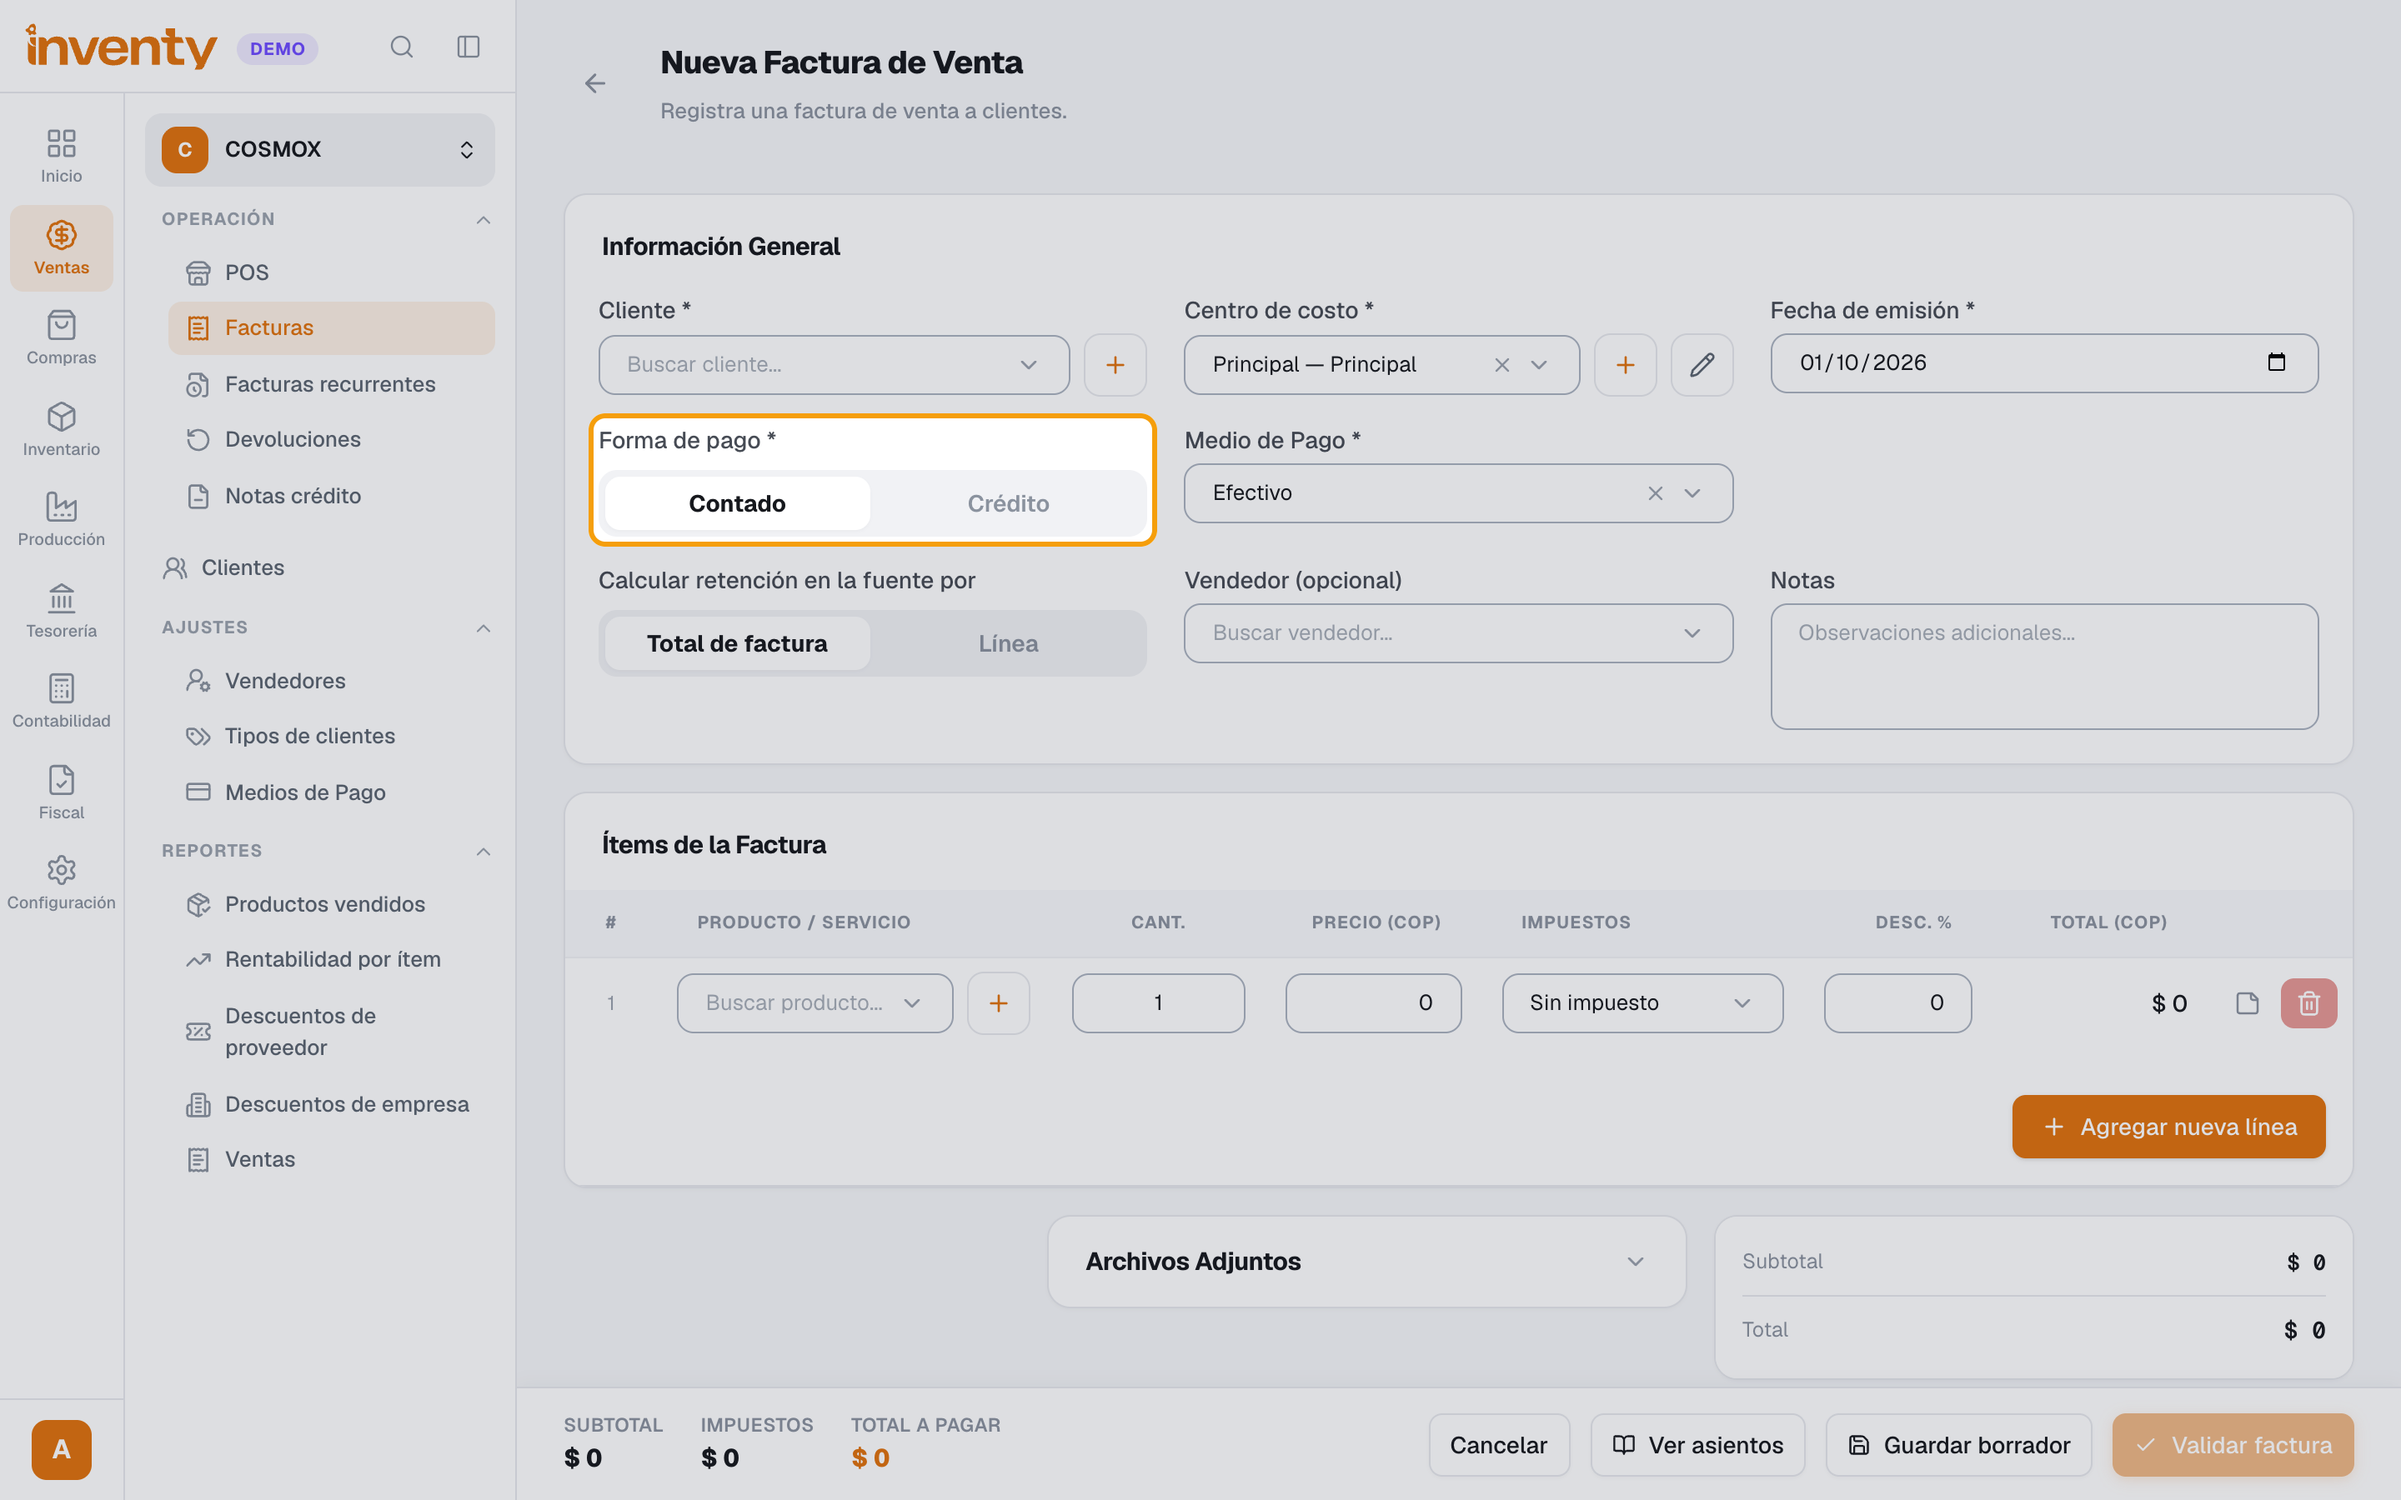
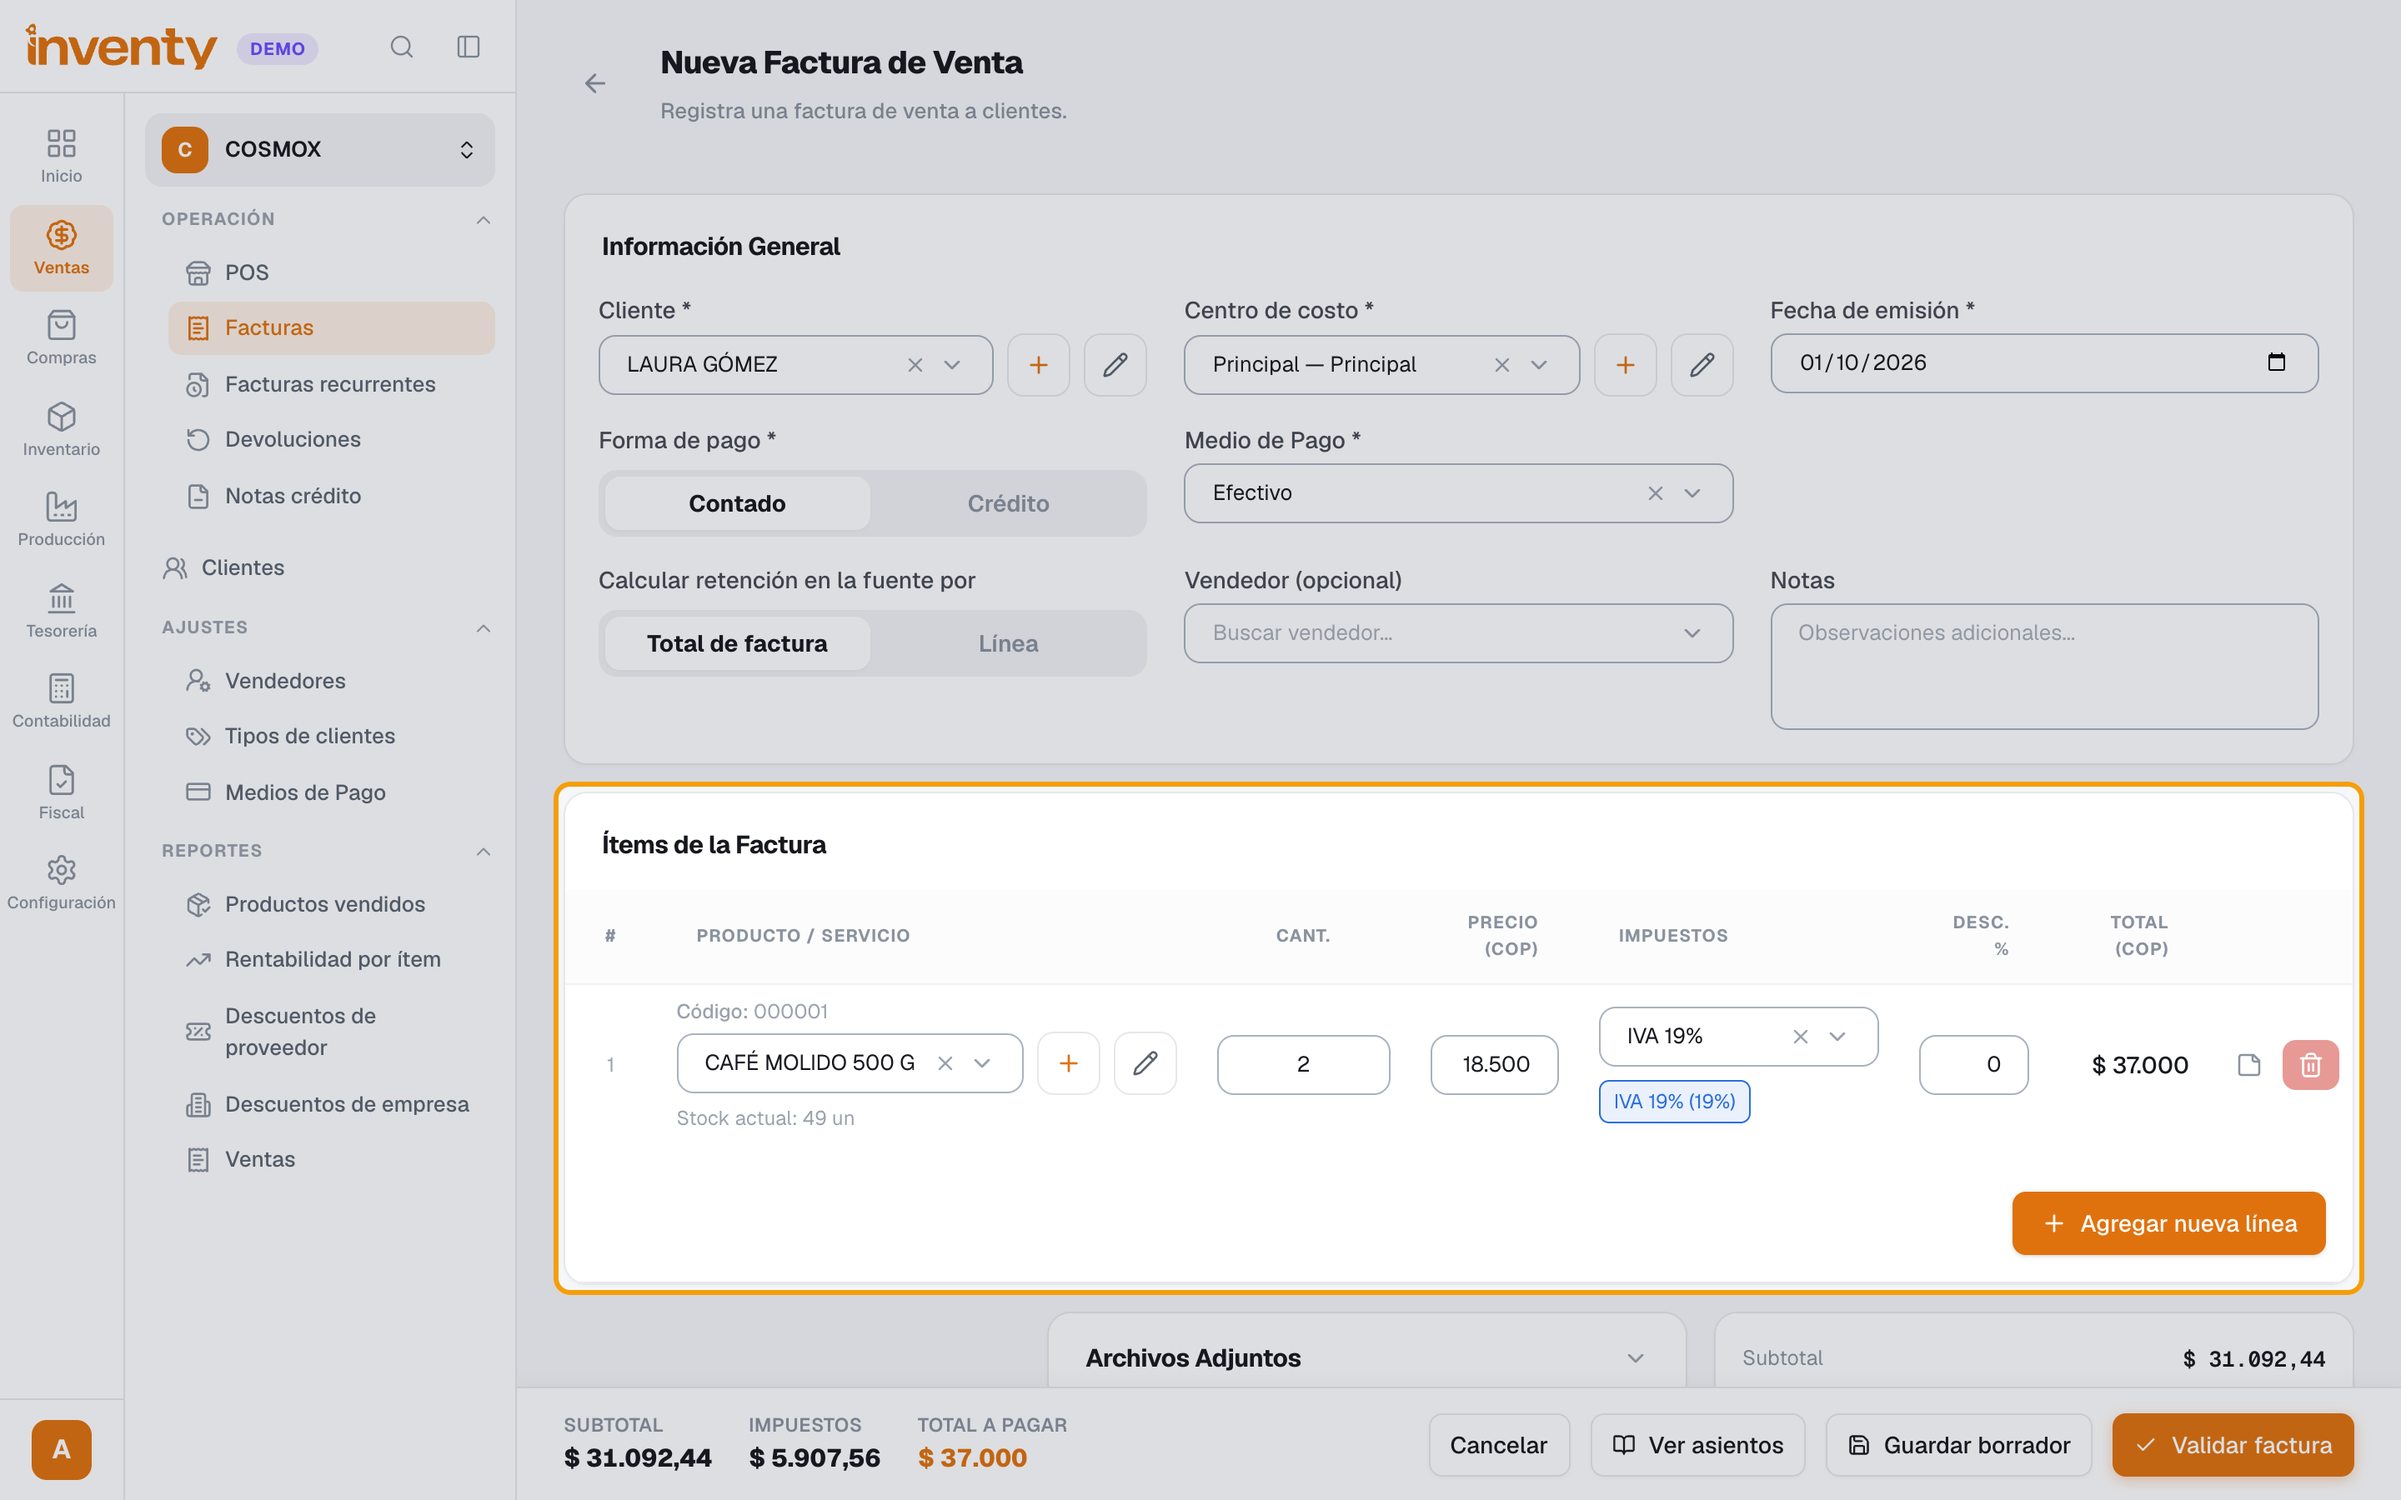
feat: factura de venta a crédito validada en la demo; guía de tipos de cliente
- Hallazgos documentados: cuenta por cobrar en el tipo de cliente, error de monto
  a crédito, menú Más acciones; pasos de facturación electrónica como captura manual
  (la demo no está habilitada ante la DIAN).

diff --git a/docs/ventas/crear-factura-venta.md b/docs/ventas/crear-factura-venta.md
@@ -32,21 +32,21 @@ tags:
 
 ![Paso 2: cliente, centro de costo y fecha](../assets/capturas/ventas/crear-factura-venta/paso-2.png)
 
-**Paso 3.** Elige **Forma de pago** (**Contado** o **Crédito**) y el **Medio de Pago**. En crédito, revisa la **Fecha de vencimiento**.
+**Paso 3.** En **Ítems de la Factura**, elige el producto en **Buscar producto...** y escribe la cantidad. El precio, el impuesto y el descuento se llenan solos. Usa **Agregar nueva línea** para más productos.
 
-![Paso 3: forma y medio de pago](../assets/capturas/ventas/crear-factura-venta/paso-3.png)
+![Paso 3: ítems de la factura](../assets/capturas/ventas/crear-factura-venta/paso-3.png)
 
-**Paso 4.** En **Ítems de la Factura**, haz clic en **Agregar ítem** y registra cada producto con cantidad y precio.
+**Paso 4.** Elige **Forma de pago**: **Contado** (con su **Medio de Pago**) o **Crédito** (verás el **Cupo disponible** y la **Fecha de vencimiento**). Hazlo **después** de agregar los productos.
 
-![Paso 4: ítems de la factura](../assets/capturas/ventas/crear-factura-venta/paso-4.png)
+![Paso 4: forma y medio de pago](../assets/capturas/ventas/crear-factura-venta/paso-4.png)
 
 **Paso 5.** Revisa el **Total a pagar** y haz clic en **Validar factura**. Confirma en **¿Validar factura?**
 
 ![Paso 5: botón Validar factura](../assets/capturas/ventas/crear-factura-venta/paso-5.png)
 
-**Paso 6.** Si no se envió sola a la DIAN, en el detalle haz clic en **Emitir electrónica**.
+**Paso 6.** En el detalle, **Más acciones** tiene **PDF**, **Ver asientos**, **Imprimir tirilla**, **Clonar** y **Convertir en recurrente**. Si tu empresa factura electrónicamente y no se envió sola, ahí también verás **Emitir electrónica** ([guía](../facturacion-electronica/emitir-factura-electronica.md)).
 
-![Paso 6: botón Emitir electrónica](../assets/capturas/ventas/crear-factura-venta/paso-6.png)
+![Paso 6: menú Más acciones de la factura](../assets/capturas/ventas/crear-factura-venta/paso-6.png)
 
 ✅ **Listo:** la factura queda **Validada** (o **Pagada**) y afecta inventario, cartera y contabilidad. Ya no se puede editar.
 
@@ -58,8 +58,9 @@ tags:
 | Problema | Solución |
 |---|---|
 | *La fecha de emisión no puede ser una fecha futura.* | Usa hoy o una fecha anterior. |
+| *El monto a crédito debe ser igual al total de la factura.* | Elegiste **Crédito** antes de agregar o cambiar productos. Haz clic en **Contado** y otra vez en **Crédito** para recalcular. |
 | *Este cliente no tiene cupo de crédito disponible.* | Sube su cupo o factura de contado. |
-| *El asiento contable no está balanceado* | Falta una cuenta contable: revisa con tu contador. |
+| *El asiento contable no está balanceado* | Usa **Ver asientos**: la línea sin cuenta dice qué falta. Si dice *Configura la cuenta por cobrar en el tipo de cliente*, asígnale al cliente un [tipo de cliente](tipos-de-cliente.md) con cuenta por cobrar. |
 | *El centro de costo es obligatorio.* | Crea uno en <span class="ruta">Configuración › Centros de Costo</span>. |
 | Me equivoqué en una factura validada | Haz una [devolución](devolucion-venta.md). Anular solo es posible si no movió inventario. |
 

diff --git a/gestion/estado-articulos.md b/gestion/estado-articulos.md
@@ -2,7 +2,7 @@
 
 > Generado con `python scripts/check_docs.py --estado > gestion/estado-articulos.md`. No editar a mano.
 
-**Pendiente de validación:** 61
+**Pendiente de validación:** 62
 
 | Módulo | Artículo | Tipo | Estado | Capturas pendientes | Validaciones pendientes | Revisado |
 |---|---|---|---|---|---|---|
@@ -17,7 +17,7 @@
 | facturacion-electronica | [Facturación electrónica](../docs/facturacion-electronica/index.md) | indice | Pendiente de validación | 0 | 2 | 2026-09-29 |
 | facturacion-electronica | [Soluciones rápidas: facturación electrónica](../docs/soluciones-rapidas/facturacion-electronica.md) | solucion | Pendiente de validación | 0 | 0 | 2026-09-29 |
 | facturacion-electronica | [¿Cómo emito un documento soporte electrónico?](../docs/facturacion-electronica/documento-soporte.md) | rapida | Pendiente de validación | 2 | 0 | 2026-09-30 |
-| facturacion-electronica | [¿Cómo emito una factura electrónica?](../docs/facturacion-electronica/emitir-factura-electronica.md) | rapida | Pendiente de validación | 4 | 0 | 2026-09-30 |
+| facturacion-electronica | [¿Cómo emito una factura electrónica?](../docs/facturacion-electronica/emitir-factura-electronica.md) | rapida | Pendiente de validación | 2 | 0 | 2026-09-30 |
 | facturacion-electronica | [¿Cómo registro una resolución de la DIAN?](../docs/facturacion-electronica/resoluciones.md) | rapida | Pendiente de validación | 0 | 0 | 2026-09-30 |
 | facturacion-electronica | [¿Qué hago si un documento electrónico es rechazado?](../docs/facturacion-electronica/documento-rechazado.md) | rapida | Pendiente de validación | 3 | 0 | 2026-09-30 |
 | facturacion-electronica | [¿Qué significa cada estado de un documento electrónico?](../docs/facturacion-electronica/estados-documento.md) | concepto | Pendiente de validación | 1 | 0 | 2026-09-29 |
@@ -64,7 +64,8 @@
 | soporte | [Soluciones rápidas](../docs/soluciones-rapidas/index.md) | indice | Pendiente de validación | 0 | 1 | 2026-09-29 |
 | ventas | [Soluciones rápidas: ventas](../docs/soluciones-rapidas/ventas.md) | solucion | Pendiente de validación | 0 | 0 | 2026-09-29 |
 | ventas | [Ventas](../docs/ventas/index.md) | indice | Pendiente de validación | 0 | 0 | 2026-09-29 |
-| ventas | [¿Cómo creo un cliente?](../docs/ventas/crear-cliente.md) | rapida | Pendiente de validación | 5 | 0 | 2026-09-30 |
-| ventas | [¿Cómo hago una factura de venta?](../docs/ventas/crear-factura-venta.md) | rapida | Pendiente de validación | 1 | 0 | 2026-09-30 |
+| ventas | [¿Cómo creo un cliente?](../docs/ventas/crear-cliente.md) | rapida | Pendiente de validación | 0 | 0 | 2026-09-30 |
+| ventas | [¿Cómo creo un tipo de cliente?](../docs/ventas/tipos-de-cliente.md) | rapida | Pendiente de validación | 0 | 0 | 2026-09-30 |
+| ventas | [¿Cómo hago una factura de venta?](../docs/ventas/crear-factura-venta.md) | rapida | Pendiente de validación | 0 | 0 | 2026-09-30 |
 | ventas | [¿Cómo registro una devolución de venta?](../docs/ventas/devolucion-venta.md) | rapida | Pendiente de validación | 2 | 0 | 2026-09-30 |
 

diff --git a/docs/ventas/tipos-de-cliente.md b/docs/ventas/tipos-de-cliente.md
@@ -1,0 +1,62 @@
+---
+title: "¿Cómo creo un tipo de cliente?"
+description: "Pasos para crear un tipo de cliente (Mayorista, Minorista…) con su cuenta por cobrar y descuento."
+estado: pendiente-validacion
+tipo: rapida
+modulo: ventas
+menu: "Ventas › Ajustes › Tipos de clientes"
+permisos:
+  - Ver clientes
+revisado: 2026-09-30
+tags:
+  - Ventas
+  - Clientes
+  - Contabilidad
+---
+
+# ¿Cómo creo un tipo de cliente?
+
+<p class="tambien-se-busca">También se busca como: tipo de cliente, clasificar clientes, mayorista, minorista, descuento por tipo de cliente, cuenta por cobrar, cartera, cliente a crédito.</p>
+
+**Qué es:** una clasificación de clientes (mayorista, minorista…) que define **a qué cuenta va su cartera** y si tienen un **descuento general**. Inventy trae el tipo *General*.
+
+## Pasos
+
+**Paso 1.** Ingresa a <span class="ruta">Ventas › Ajustes › Tipos de clientes</span> y haz clic en **Nuevo tipo de cliente**.
+
+![Paso 1: botón Nuevo tipo de cliente](../assets/capturas/ventas/tipos-de-cliente/paso-1.png)
+
+**Paso 2.** Escribe el **Nombre** (ej. *Mayorista*).
+
+![Paso 2: campo Nombre](../assets/capturas/ventas/tipos-de-cliente/paso-2.png)
+
+**Paso 3.** Elige la **Cuenta por cobrar** (ej. *130505001 — Clientes nacionales*). Es obligatoria para vender a crédito si usas Contabilidad.
+
+![Paso 3: campo Cuenta por cobrar](../assets/capturas/ventas/tipos-de-cliente/paso-3.png)
+
+**Paso 4.** (Opcional) Escribe el **Descuento general en ventas (%)** que tendrán estos clientes.
+
+![Paso 4: campo Descuento general en ventas](../assets/capturas/ventas/tipos-de-cliente/paso-4.png)
+
+**Paso 5.** Haz clic en **Crear tipo de cliente**.
+
+![Paso 5: botón Crear tipo de cliente](../assets/capturas/ventas/tipos-de-cliente/paso-5.png)
+
+**Paso 6.** Asígnalo a cada cliente en su ficha: **Datos del rol de cliente › Tipo de cliente**.
+
+![Paso 6: tipo de cliente creado en la lista](../assets/capturas/ventas/tipos-de-cliente/paso-6.png)
+
+✅ **Listo:** las ventas a crédito de esos clientes registran la cartera en la cuenta elegida y aplican su descuento.
+
+## Si algo falla
+
+| Problema | Solución |
+|---|---|
+| Al facturar a crédito: *Configura la cuenta por cobrar en el tipo de cliente* | El cliente no tiene tipo, o su tipo no tiene **Cuenta por cobrar**. Asígnale uno con cuenta. |
+| No aparece la cuenta para elegir | Carga primero las [cuentas auxiliares por defecto](../contabilidad/cuentas-auxiliares.md). |
+| El descuento no se aplica en el POS a un producto | Si el cliente tiene descuento por tipo, no se puede poner además un descuento manual en esa línea. |
+
+## Relacionados
+
+- [¿Cómo creo un cliente?](crear-cliente.md)
+- [¿Cómo hago una factura de venta?](crear-factura-venta.md)

diff --git a/docs/ventas/crear-cliente.md b/docs/ventas/crear-cliente.md
@@ -38,7 +38,7 @@ tags:
 
 ![Paso 4: información de contacto](../assets/capturas/ventas/crear-cliente/paso-4.png)
 
-**Paso 5.** En **Datos del rol de cliente**, define **Límite de crédito** (0 = sin crédito) y **Plazo de pago (días)**. Si aplica, marca **No calcula impuestos en ventas** y configura sus **Retenciones**.
+**Paso 5.** En **Datos del rol de cliente**, define **Límite de crédito** (0 = sin crédito), **Plazo de pago (días)** y el **Tipo de cliente** (obligatorio para vender a crédito si usas Contabilidad: de ahí sale la cuenta por cobrar). Si aplica, marca **No calcula impuestos en ventas** y configura sus **Retenciones**.
 
 ![Paso 5: condiciones comerciales](../assets/capturas/ventas/crear-cliente/paso-5.png)
 
@@ -56,6 +56,7 @@ tags:
 | *El número de identificación contiene caracteres no válidos.* | Escribe sin puntos, comas ni espacios. |
 | *No pudimos leer el RUT…* | Escribe los datos a mano. |
 | *Este cliente no tiene cupo de crédito disponible.* | Sube el **Límite de crédito** o vende de contado. |
+| Al facturar a crédito: *Configura la cuenta por cobrar en el tipo de cliente* | Asígnale un [tipo de cliente](tipos-de-cliente.md) con **Cuenta por cobrar**. |
 | El cliente no debe recibir factura electrónica | Marca **No genera documentos electrónicos**. |
 | Al cliente no se le cobra IVA | Marca **No calcula impuestos en ventas**: el precio se toma como base. |
 

diff --git a/gestion/capturas-reporte.md b/gestion/capturas-reporte.md
@@ -1,5 +1,13 @@
 # Reporte de capturas
 
-> Generado por `npm run capturas` el 1/10/2026, 12:31:49 p. m.. Ambiente: https://erp.cosmox.tech
+> Generado por `npm run capturas` el 1/10/2026, 12:42:17 p. m.. Ambiente: https://erp.cosmox.tech
 
-**6** capturas tomadas · **0** fallas · **64** imágenes siguen pendientes.
+**1** capturas tomadas · **3** fallas · **61** imágenes siguen pendientes.
+
+## Fallas
+
+| Guía | Paso | Detalle |
+|---|---|---|
+| facturacion-electronica/documento-rechazado.md | 2 | Captura manual: menú de acciones de un documento Rechazado por DIAN con la opción Ver error (requiere empresa habilitada) |
+| facturacion-electronica/documento-rechazado.md | 3 | Captura manual: ventana Ver error con el mensaje de la DIAN |
+| facturacion-electronica/documento-rechazado.md | 4 | Captura manual: menú de acciones con Reenviar documento electrónico |

diff --git a/docs/ventas/index.md b/docs/ventas/index.md
@@ -17,6 +17,7 @@ Usa el menú **Ventas** para facturar a tus clientes desde la oficina (con más 
 
 ## Guías disponibles
 
+- [¿Cómo creo un tipo de cliente?](tipos-de-cliente.md)
 - [¿Cómo creo un cliente?](crear-cliente.md)
 - [¿Cómo hago una factura de venta?](crear-factura-venta.md)
 - [¿Cómo registro una devolución de venta?](devolucion-venta.md)
